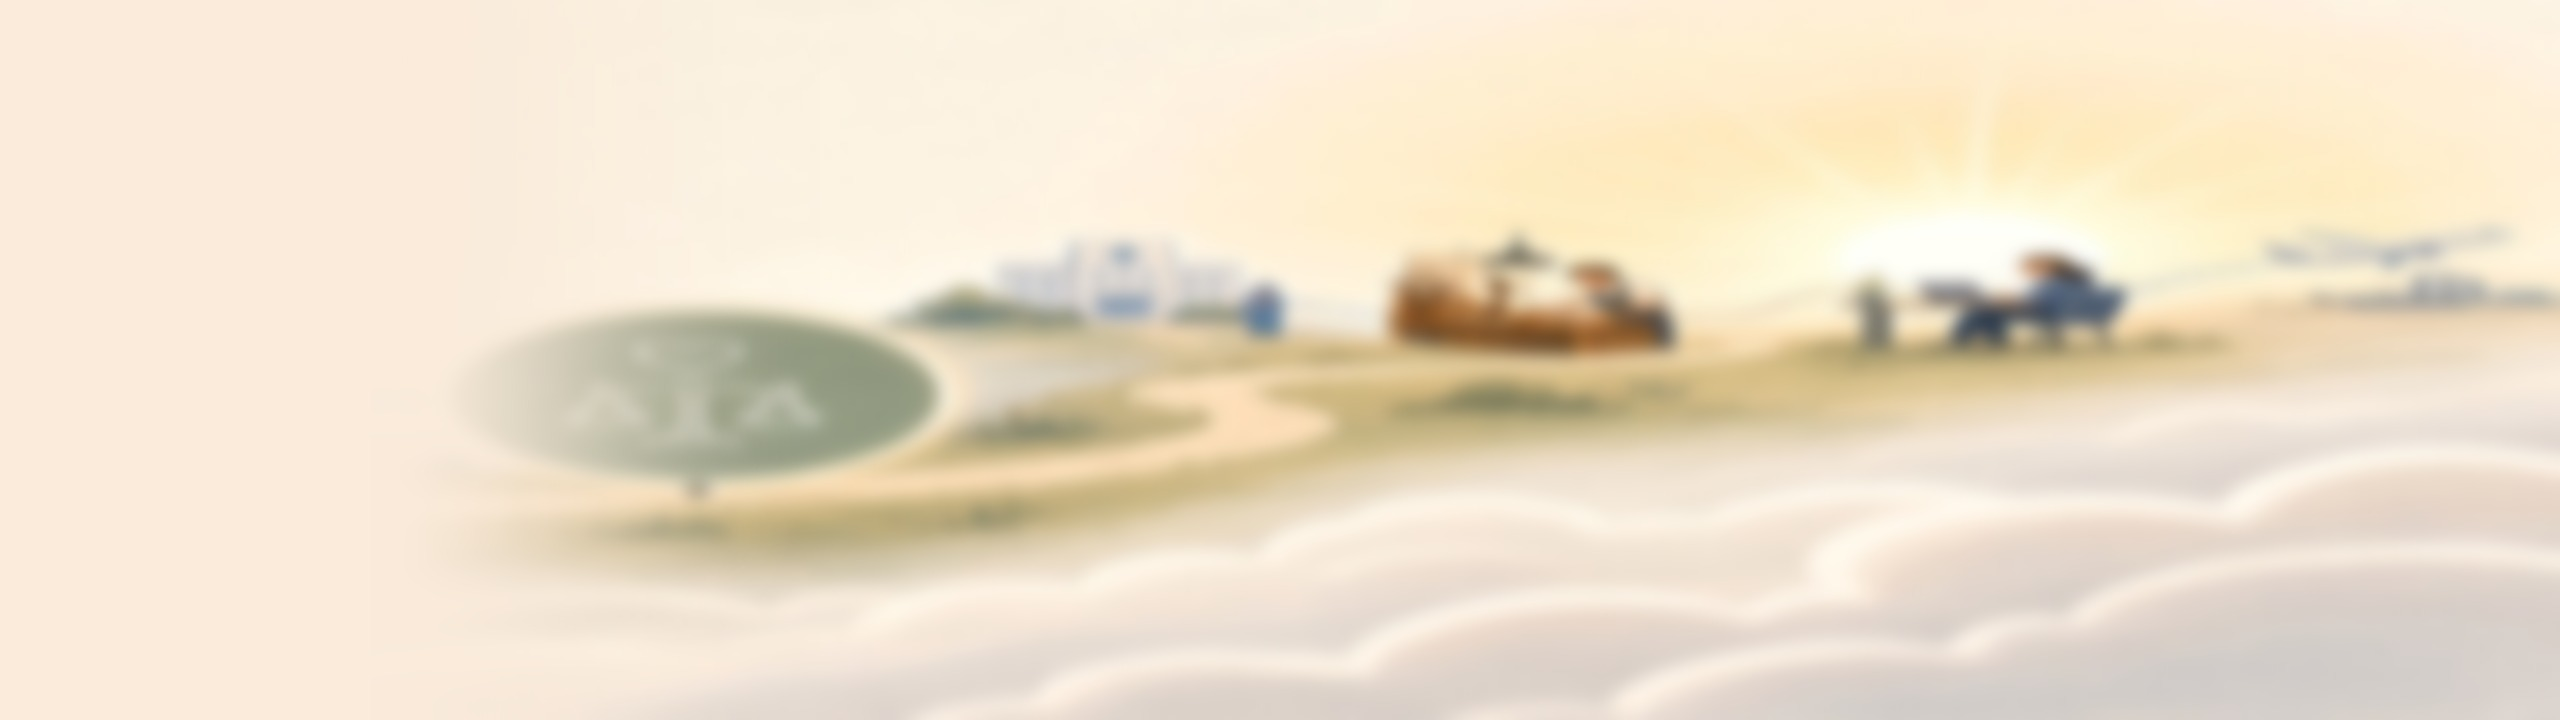
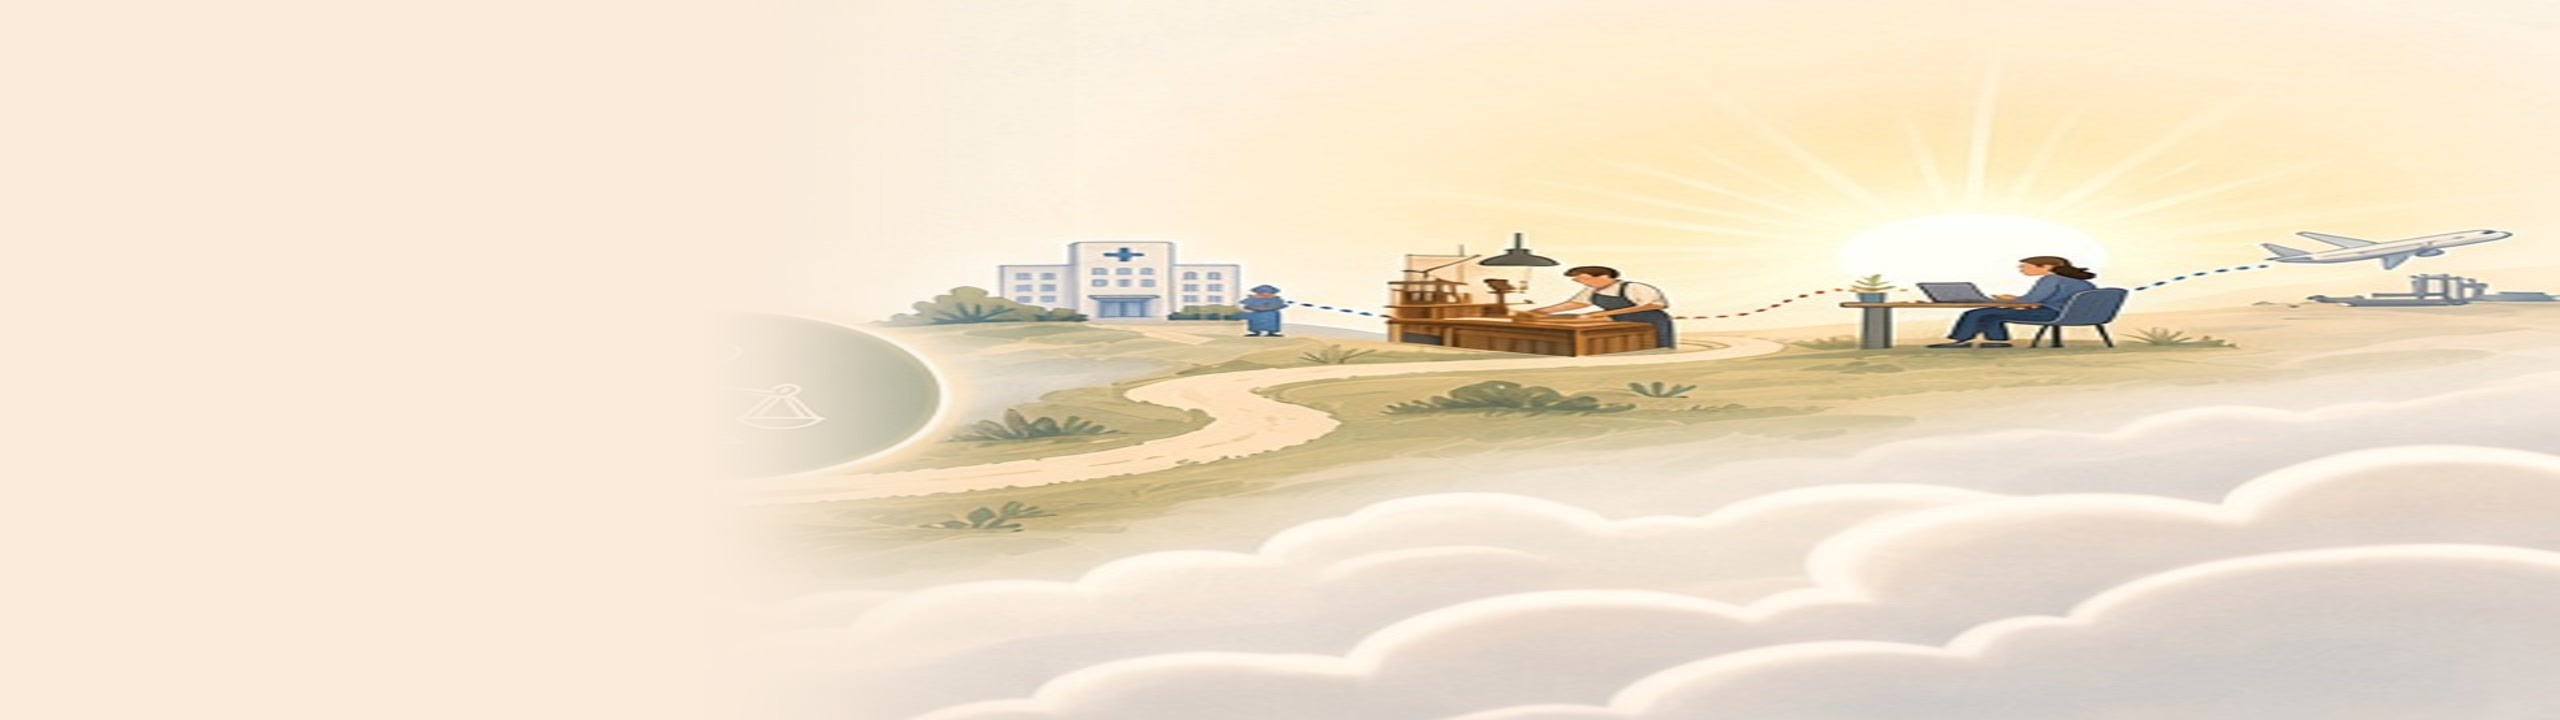
Variant C r15: restore wide paspoort desktop hero art.
Match Carrière mask/overlay (drop art wash ::after, career ::before), re-export
kompas-hero-band-c with ~24% left feather only, and add R15 captures with art
width and opacity metrics under /opt/cursor/artifacts/compact-headers-preview-r15/.

Changed region(s): [[0.1875, 0.3056, 1.0, 0.825], [0.4688, 0.6111, 0.5, 0.6417]]

diff --git a/Jobsy.Web/wwwroot/css/features/candidate-hero-compact-preview.css b/Jobsy.Web/wwwroot/css/features/candidate-hero-compact-preview.css
@@ -279,11 +279,9 @@
     background: linear-gradient(
       90deg,
       var(--cand-compact-hero-band) 0%,
-      var(--cand-compact-hero-band) 42%,
+      var(--cand-compact-hero-band) 46%,
       color-mix(in srgb, var(--cand-compact-hero-band) 82%, transparent) 54%,
-      transparent 72%,
-      color-mix(in srgb, var(--cand-compact-hero-band) 55%, transparent) 88%,
-      transparent 100%
+      transparent 72%
     );
   }
 
@@ -328,21 +326,6 @@
     ) !important;
   }
 
-  .passport-page--compact-preview-c > header.cand-compact-hero--onboarding .cand-compact-hero__art::after {
-    content: "";
-    position: absolute;
-    inset: 0;
-    z-index: 1;
-    pointer-events: none;
-    background: linear-gradient(
-      90deg,
-      var(--cand-compact-hero-band) 0%,
-      color-mix(in srgb, var(--cand-compact-hero-band) 92%, transparent) 8%,
-      color-mix(in srgb, var(--cand-compact-hero-band) 45%, transparent) 32%,
-      transparent 48%
-    );
-  }
-
   .ob-illustrated-step--compact-preview-c .cand-compact-hero--onboarding .cand-compact-hero__art img,
   .career-page--compact-preview-c > header.cand-compact-hero--onboarding .cand-compact-hero__art img {
     width: 112%;
@@ -364,9 +347,9 @@
     min-height: 150px;
     object-fit: cover;
     object-position: right center;
-    -webkit-mask-image: linear-gradient(to right, transparent 0%, transparent 30%, #000 58%, #000 90%, transparent 100%),
+    -webkit-mask-image: linear-gradient(to right, transparent 0%, transparent 12%, #000 26%, #000 94%, transparent 100%),
       linear-gradient(to bottom, transparent 0, #000 6px, #000 calc(100% - 14px), transparent 100%);
-    mask-image: linear-gradient(to right, transparent 0%, transparent 30%, #000 58%, #000 90%, transparent 100%),
+    mask-image: linear-gradient(to right, transparent 0%, transparent 12%, #000 26%, #000 94%, transparent 100%),
       linear-gradient(to bottom, transparent 0, #000 6px, #000 calc(100% - 14px), transparent 100%);
     -webkit-mask-composite: source-in;
     mask-composite: intersect;

diff --git a/Jobsy.Tests/CompactHeadersPreviewR15ScreenshotTests.cs b/Jobsy.Tests/CompactHeadersPreviewR15ScreenshotTests.cs
@@ -1,0 +1,284 @@
+using System.Text.Json;
+using Jobsy.Web.Media;
+using Microsoft.Playwright;
+using SixLabors.ImageSharp;
+using SixLabors.ImageSharp.PixelFormats;
+
+namespace Jobsy.Tests;
+
+/// <summary>R15: paspoort desktop — wide prominent art (~50–55% band), soft left feather only.</summary>
+[Collection("PlaywrightSmoke")]
+public sealed class CompactHeadersPreviewR15ScreenshotTests : IAsyncLifetime
+{
+    private const string ArtifactsDir = "/opt/cursor/artifacts/compact-headers-preview-r15";
+    private static readonly (int R, int G, int B) BandRgb = (250, 235, 219);
+
+    private IllustratedPagesWebFactory? _web;
+    private IPlaywright? _playwright;
+    private IBrowser? _browser;
+
+    public async ValueTask InitializeAsync()
+    {
+        Environment.SetEnvironmentVariable("DOTNET_USE_POLLING_FILE_WATCHER", "true");
+        var exit = Microsoft.Playwright.Program.Main(["install", "chromium"]);
+        Assert.Equal(0, exit);
+        _playwright = await Playwright.CreateAsync();
+        _browser = await _playwright.Chromium.LaunchAsync(new() { Headless = true });
+        _web = new IllustratedPagesWebFactory(emptyAppsAndLikes: true);
+        _ = _web.ServerAddress;
+    }
+
+    public async ValueTask DisposeAsync()
+    {
+        if (_browser is not null)
+        {
+            await _browser.DisposeAsync();
+        }
+
+        _playwright?.Dispose();
+        _web?.Dispose();
+    }
+
+    [Fact]
+    public async Task Capture_compact_header_preview_r15_paspoort_desktop()
+    {
+        Directory.CreateDirectory(ArtifactsDir);
+        var report = new List<object>();
+
+        foreach (var width in new[] { 1440, 1920 })
+        {
+            var (bytes, metrics) = await CapturePaspoortAsync(width);
+            var pngPath = Path.Combine(ArtifactsDir, $"paspoort-c-{width}.png");
+            await File.WriteAllBytesAsync(pngPath, bytes);
+
+            report.Add(new
+            {
+                width,
+                metrics.UsesBandCArt,
+                metrics.HeroBandHeightPx,
+                metrics.ArtVisibleWidthPx,
+                metrics.ArtWidthPercentOfHero,
+                metrics.ArtIllustrationLeftPx,
+                meanArtOpacityProxy = Math.Round(metrics.MeanArtOpacityProxy, 3),
+                artLeftEdgeSamples = metrics.ArtLeftEdgeSamples.Select(s => new { s.Name, hex = $"#{s.R:X2}{s.G:X2}{s.B:X2}" })
+            });
+
+            await File.WriteAllTextAsync(
+                Path.Combine(ArtifactsDir, "r15-metrics.json"),
+                JsonSerializer.Serialize(report, new JsonSerializerOptions { WriteIndented = true }));
+
+            Assert.True(metrics.UsesBandCArt, $"paspoort {width}: img must use kompas-hero-band-c.");
+            Assert.InRange(metrics.HeroBandHeightPx, 145, 152);
+            Assert.InRange(metrics.ArtWidthPercentOfHero, 48, 62);
+            Assert.True(metrics.MeanArtOpacityProxy >= 0.45,
+                $"paspoort {width}: art too washed (opacity proxy {metrics.MeanArtOpacityProxy:F2}, min 0.45).");
+            AssertArtLeftFeatherSmooth(metrics.ArtLeftEdgeSamples, width);
+        }
+    }
+
+    private static void AssertArtLeftFeatherSmooth(List<BandSample> samples, int width)
+    {
+        Assert.Equal(5, samples.Count);
+        for (var i = 1; i < samples.Count; i++)
+        {
+            var a = samples[i - 1];
+            var b = samples[i];
+            var maxStep = Math.Max(Math.Max(Math.Abs(a.R - b.R), Math.Abs(a.G - b.G)), Math.Abs(a.B - b.B));
+            Assert.True(maxStep <= 4, $"paspoort {width}: RGB step {a.Name}→{b.Name} Δ{maxStep} (max 4).");
+        }
+    }
+
+    private async Task<(byte[] Png, CaptureMetrics Metrics)> CapturePaspoortAsync(int width)
+    {
+        var height = width >= 1920 ? 1080 : 900;
+        await using var context = await _browser!.NewContextAsync(new()
+        {
+            ViewportSize = new() { Width = width, Height = height },
+            Locale = "nl-NL"
+        });
+        await PlaywrightCookieConsent.AcceptAsync(context);
+        var page = await context.NewPageAsync();
+        page.SetDefaultTimeout(120_000);
+        var pathWithQuery = "/candidate/paspoort?heroPreview=c";
+        await page.GotoAsync(
+            $"{_web!.ServerAddress}/__test/sign-in?return={Uri.EscapeDataString(pathWithQuery)}",
+            new() { WaitUntil = WaitUntilState.DOMContentLoaded });
+        await page.GotoAsync($"{_web.ServerAddress}{pathWithQuery}", new() { WaitUntil = WaitUntilState.DOMContentLoaded });
+        await page.AddStyleTagAsync(new()
+        {
+            Content = """
+                .pub-header, .jobsy-chrome__header, .bottom-nav, .candidate-bottom-nav,
+                .lobsy-coach-dock, .pub-coach-dock { position: static !important; }
+                .lobsy-assistant-tab, .pub-assistant-rail, .assistant-rail, [data-assistant-rail] { display: none !important; }
+                """
+        });
+        await page.Locator(".passport-page--compact-preview-c .cand-compact-hero--onboarding").WaitForAsync(new() { Timeout = 120_000 });
+        await page.EvaluateAsync("() => window.scrollTo(0, 0)");
+        await page.WaitForTimeoutAsync(900);
+
+        var usesBand = await page.EvaluateAsync<bool>(
+            """
+            () => {
+              const img = document.querySelector('.passport-page--compact-preview-c .cand-compact-hero__art img');
+              const src = img ? (img.currentSrc || img.src || '') : '';
+              return src.includes('kompas-hero-band-c');
+            }
+            """);
+
+        var heroBox = await page.Locator(".passport-page--compact-preview-c .cand-compact-hero--onboarding").First.BoundingBoxAsync();
+        var artBox = await page.Locator(".passport-page--compact-preview-c .cand-compact-hero__art").First.BoundingBoxAsync();
+        var png = await page.ScreenshotAsync(new() { Type = ScreenshotType.Png, FullPage = false });
+        var analysis = AnalyzeHeroArt(png, artBox, heroBox);
+        var metrics = new CaptureMetrics
+        {
+            UsesBandCArt = usesBand,
+            HeroBandHeightPx = heroBox is null ? 0 : (int)Math.Round(heroBox.Height),
+            ArtVisibleWidthPx = analysis.ArtVisibleWidthPx,
+            ArtWidthPercentOfHero = analysis.ArtWidthPercentOfHero,
+            ArtIllustrationLeftPx = analysis.ArtIllustrationLeftPx,
+            MeanArtOpacityProxy = analysis.MeanArtOpacityProxy,
+            ArtLeftEdgeSamples = analysis.ArtLeftEdgeSamples
+        };
+        return (png, metrics);
+    }
+
+    private static ArtAnalysis AnalyzeHeroArt(
+        byte[] pngBytes,
+        LocatorBoundingBoxResult? artBox,
+        LocatorBoundingBoxResult? heroBox)
+    {
+        var samples = new List<BandSample>();
+        if (heroBox is null || artBox is null)
+        {
+            return new ArtAnalysis();
+        }
+
+        using var img = Image.Load<Rgb24>(pngBytes);
+        var hx = (int)Math.Round(heroBox.X);
+        var hw = (int)Math.Round(heroBox.Width);
+        var ax = (int)Math.Round(artBox.X);
+        var aw = (int)Math.Round(artBox.Width);
+        var midY = Math.Clamp((int)Math.Round(heroBox.Y + heroBox.Height / 2), 0, img.Height - 1);
+
+        static int Dist(Rgb24 p) =>
+            Math.Abs(p.R - BandRgb.R) + Math.Abs(p.G - BandRgb.G) + Math.Abs(p.B - BandRgb.B);
+
+        static double Saturation(Rgb24 p)
+        {
+            var max = Math.Max(p.R, Math.Max(p.G, p.B));
+            var min = Math.Min(p.R, Math.Min(p.G, p.B));
+            return Math.Clamp((max - min) / 70.0, 0, 1);
+        }
+
+        var artVisibleWidth = aw;
+        var artWidthPct = hw > 0 ? 100.0 * artVisibleWidth / hw : 0;
+
+        var coreStart = ax + aw / 3;
+        var coreEnd = ax + 2 * aw / 3;
+        var sum = 0.0;
+        var count = 0;
+        for (var x = coreStart; x <= coreEnd; x++)
+        {
+            var p = img[Math.Clamp(x, 0, img.Width - 1), midY];
+            sum += Math.Max(Saturation(p), Math.Clamp(Dist(p) / 100.0, 0, 1));
+            count++;
+        }
+
+        var meanOpacity = count > 0 ? sum / count : 0;
+
+        var yTop = Math.Clamp((int)Math.Round(heroBox.Y + heroBox.Height * 0.15), 0, img.Height - 1);
+        var yBottom = Math.Clamp((int)Math.Round(heroBox.Y + heroBox.Height * 0.9), 0, img.Height - 1);
+        var scanStart = Math.Max(0, ax - 40);
+        var scanEnd = Math.Min(img.Width - 1, ax + (int)(aw * 0.55));
+        var illustrationLeft = scanEnd;
+        for (var y = yTop; y <= yBottom; y += 4)
+        {
+            for (var x = scanStart; x <= scanEnd; x++)
+            {
+                if (Dist(img[x, y]) > 28)
+                {
+                    illustrationLeft = Math.Min(illustrationLeft, x);
+                    break;
+                }
+            }
+        }
+
+        var illustrationLeftPx = illustrationLeft <= scanEnd ? illustrationLeft : ax;
+        var edgeX = ax;
+
+        var offsets = new (string Name, int Dx)[]
+        {
+            ("left_minus_20", -20),
+            ("art_left", 0),
+            ("left_plus_20", 20),
+            ("left_plus_40", 40),
+            ("left_plus_80", 80)
+        };
+
+        var sampleY = midY;
+        var bestStep = int.MaxValue;
+        for (var y = yTop; y <= yBottom; y++)
+        {
+            var prev = (Rgb24?)null;
+            var maxStep = 0;
+            foreach (var dx in new[] { -20, 0, 20, 40, 80 })
+            {
+                var px = Math.Clamp(edgeX + dx, 0, img.Width - 1);
+                var p = img[px, y];
+                if (prev is not null)
+                {
+                    maxStep = Math.Max(maxStep, Math.Max(
+                        Math.Abs(p.R - prev.Value.R),
+                        Math.Max(Math.Abs(p.G - prev.Value.G), Math.Abs(p.B - prev.Value.B))));
+                }
+
+                prev = p;
+            }
+
+            var tailDist = Dist(img[Math.Clamp(edgeX + 80, 0, img.Width - 1), y]);
+            if (tailDist >= 12 && maxStep <= 4 && maxStep < bestStep)
+            {
+                bestStep = maxStep;
+                sampleY = y;
+            }
+        }
+
+        foreach (var (name, dx) in offsets)
+        {
+            var px = Math.Clamp(edgeX + dx, 0, img.Width - 1);
+            var p = img[px, sampleY];
+            samples.Add(new BandSample(name, p.R, p.G, p.B));
+        }
+
+        return new ArtAnalysis
+        {
+            ArtVisibleWidthPx = artVisibleWidth,
+            ArtWidthPercentOfHero = artWidthPct,
+            ArtIllustrationLeftPx = illustrationLeftPx,
+            MeanArtOpacityProxy = meanOpacity,
+            ArtLeftEdgeSamples = samples
+        };
+    }
+
+    private sealed class CaptureMetrics
+    {
+        public bool UsesBandCArt { get; set; }
+        public int HeroBandHeightPx { get; set; }
+        public int ArtVisibleWidthPx { get; set; }
+        public double ArtWidthPercentOfHero { get; set; }
+        public int ArtIllustrationLeftPx { get; set; }
+        public double MeanArtOpacityProxy { get; set; }
+        public List<BandSample> ArtLeftEdgeSamples { get; set; } = [];
+    }
+
+    private sealed class ArtAnalysis
+    {
+        public int ArtVisibleWidthPx { get; set; }
+        public double ArtWidthPercentOfHero { get; set; }
+        public int ArtIllustrationLeftPx { get; set; }
+        public double MeanArtOpacityProxy { get; set; }
+        public List<BandSample> ArtLeftEdgeSamples { get; set; } = [];
+    }
+
+    private sealed record BandSample(string Name, int R, int G, int B);
+}

diff --git a/Jobsy.Web/Media/CandidateIllustratedImages.cs b/Jobsy.Web/Media/CandidateIllustratedImages.cs
@@ -3,7 +3,7 @@ namespace Jobsy.Web.Media;
 /// <summary>Versioned URLs for candidate-facing illustrated pages (login, start, kompas, banenkaart).</summary>
 public static class CandidateIllustratedImages
 {
-    public const string Version = "20261019-13";
+    public const string Version = "20261019-15";
     private const string Base = $"/images/candidate-illustrated";
 
     public static string Url(string file) => $"{Base}/{file}?v={Version}";

diff --git a/Jobsy.Web/Hosting/PageAssetCatalog.cs b/Jobsy.Web/Hosting/PageAssetCatalog.cs
@@ -275,7 +275,7 @@ public static class PageAssetCatalog
             || path.Equals("/carriere", StringComparison.OrdinalIgnoreCase)
             || path == PassportRedirects.PassportPath)
         {
-            return ["css/features/candidate-hero-compact-preview.css?v=20261019-44"];
+            return ["css/features/candidate-hero-compact-preview.css?v=20261019-46"];
         }
 
         return [];
